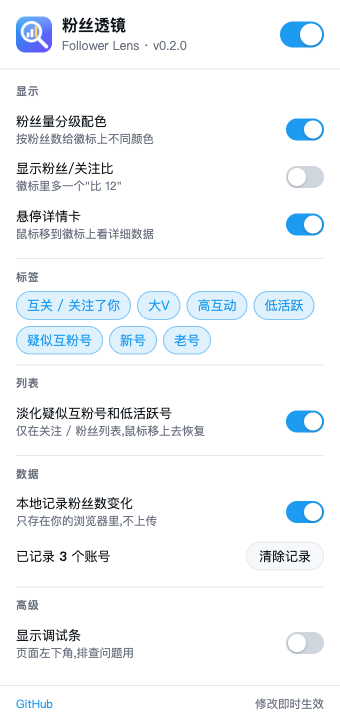
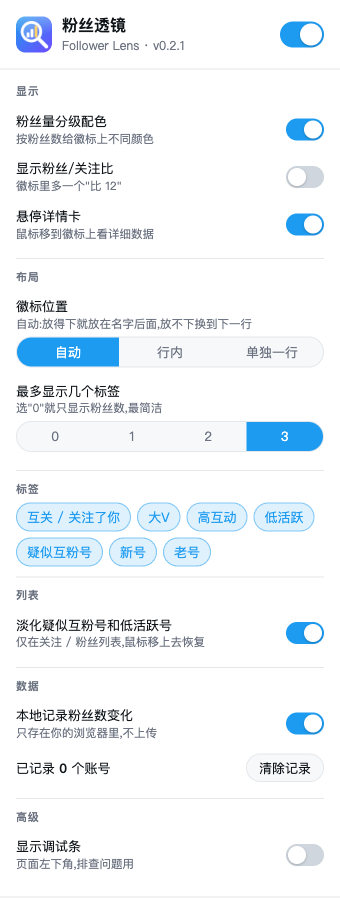
v0.2.1:徽标位置自适应(自动/行内/单独一行),标签数量可调
推文头部一行很挤,徽标塞进去会把名字和徽标文字挤坏。
- 默认"自动":放得下就放行内,名字被挤省略时换到头部下方单独一行
- 徽标及其子元素不再被 flex 压缩换行
- 设置面板新增"徽标位置"和"最多显示几个标签(0~3)"

diff --git a/content.js b/content.js
@@ -132,7 +132,7 @@
     }
 
     if (!compact) {
-      for (const t of list.slice(0, 3)) {
+      for (const t of list.slice(0, settings.maxTags)) {
         const el = document.createElement("span");
         el.className = "fl-tag " + t.cls;
         el.textContent = t.text;
@@ -147,22 +147,77 @@
     return [u.followers, s ? s.views : 0, u.followedBy, u.iFollow, settingsVer, compact ? 1 : 0].join("|");
   }
 
-  function decorate(container, anchor, isCell) {
-    const handle = handleOf(container);
+  // ----- 推文头部:行内 / 单独一行 / 自动 -----
+  const placed = new WeakMap();   // User-Name 元素 -> { badge, line, sig }
+
+  // 头部整行(名字区 + 其它插件的小标 + 菜单)。结构不符就返回 null,调用方退回行内。
+  function headerRow(un) {
+    const row = un.parentElement && un.parentElement.parentElement && un.parentElement.parentElement.parentElement;
+    const host = row && row.parentElement;
+    if (!row || !host) return null;
+    const rs = getComputedStyle(row), hs = getComputedStyle(host);
+    return rs.display === "flex" && rs.flexDirection === "row" && hs.flexDirection === "column" ? row : null;
+  }
+
+  // 名字或 @ID 因为空间不够被省略(...)了吗
+  function crowded(un, badge) {
+    for (const n of un.querySelectorAll("*")) {
+      if (n === badge || badge.contains(n)) continue;
+      if (n.clientWidth > 0 && n.scrollWidth > n.clientWidth + 1) return true;
+    }
+    return false;
+  }
+
+  function placeBelow(un, badge) {
+    const row = headerRow(un);
+    if (!row) return null;
+    const line = document.createElement("div");
+    line.className = "fl-line";
+    line.append(badge);
+    row.after(line);
+    return line;
+  }
+
+  function decorateTweet(un) {
+    const handle = handleOf(un);
     if (!handle || !users.has(handle)) return;
-    const compact = !!container.closest('[data-testid="sidebarColumn"]');
+    const sig = sigOf(handle, false);
+    const rec = placed.get(un);
+    if (rec && rec.badge.isConnected && rec.sig === sig) return;
+    if (rec) { rec.badge.remove(); if (rec.line) rec.line.remove(); }
+
+    const built = buildBadge(handle, false);
+    if (!built) return;
+    let line = null;
+    if (settings.layout === "below") {
+      line = placeBelow(un, built.wrap);
+      if (!line) un.append(built.wrap);
+    } else {
+      un.append(built.wrap);
+      // 自动:放进去之后名字被挤省略了,就挪到下一行(只判断这一次,不来回挪)
+      if (settings.layout === "auto" && crowded(un, built.wrap)) line = placeBelow(un, built.wrap);
+    }
+    placed.set(un, { badge: built.wrap, line, sig });
+  }
+
+  // ----- 关注 / 粉丝列表里的用户行 -----
+  function decorateCell(cell, anchor) {
+    const handle = handleOf(cell);
+    if (!handle || !users.has(handle)) return;
+    const compact = !!cell.closest('[data-testid="sidebarColumn"]');
     const sig = sigOf(handle, compact);
-    const old = container.querySelector(".fl-badge");
+    const old = cell.querySelector(".fl-badge");
     if (old && old.dataset.flHandle === handle && old.dataset.flSig === sig) return;
     if (old) old.remove();
     const built = buildBadge(handle, compact);
     if (!built) return;
     built.wrap.dataset.flSig = sig;
     if (anchor) anchor.append(built.wrap);
-    if (isCell) container.classList.toggle("fl-dim", settings.dimLowQuality && P.shouldDim(built.list));
+    cell.classList.toggle("fl-dim", settings.dimLowQuality && P.shouldDim(built.list));
   }
 
   function cleanup() {
+    document.querySelectorAll(".fl-line").forEach((l) => l.remove());
     document.querySelectorAll(".fl-badge").forEach((b) => b.remove());
     document.querySelectorAll(".fl-dim").forEach((c) => c.classList.remove("fl-dim"));
   }
@@ -170,12 +225,10 @@
   function render() {
     if (!settings) return;
     if (!settings.enabled) { cleanup(); return; }
-    document.querySelectorAll('article[data-testid="tweet"] [data-testid="User-Name"]').forEach((el) => {
-      decorate(el, el, false);
-    });
+    document.querySelectorAll('article[data-testid="tweet"] [data-testid="User-Name"]').forEach(decorateTweet);
     document.querySelectorAll('[data-testid="UserCell"]').forEach((cell) => {
       const nameBlock = cell.querySelector('[dir="ltr"]')?.closest("div");
-      decorate(cell, nameBlock && nameBlock.parentElement, true);
+      decorateCell(cell, nameBlock && nameBlock.parentElement);
     });
     updateHud();
   }

diff --git a/popup.js b/popup.js
@@ -3,7 +3,7 @@
   const HIST_KEY = "fl_hist";
   const DEFAULTS = {
     enabled: true, showRatio: false, tierColors: true, hoverCard: true,
-    trackHistory: true, dimLowQuality: true, debug: false,
+    trackHistory: true, dimLowQuality: true, layout: "auto", maxTags: 3, debug: false,
     tags: { relation: true, bigV: true, farm: true, newAcct: true, oldAcct: true, engaged: true, lowActive: true },
   };
   let settings = null;
@@ -14,7 +14,8 @@
   const save = () => chrome.storage.local.set({ [KEY]: settings });
 
   function paint() {
-    document.querySelectorAll("input[data-key]").forEach((el) => { el.checked = !!settings[el.dataset.key]; });
+    document.querySelectorAll('input[type="checkbox"][data-key]').forEach((el) => { el.checked = !!settings[el.dataset.key]; });
+    document.querySelectorAll('input[type="radio"][data-key]').forEach((el) => { el.checked = String(settings[el.dataset.key]) === el.value; });
     document.querySelectorAll("input[data-tag]").forEach((el) => { el.checked = !!settings.tags[el.dataset.tag]; });
     document.getElementById("panel").classList.toggle("off", !settings.enabled);
   }
@@ -33,8 +34,10 @@
 
   document.addEventListener("change", (e) => {
     const el = e.target;
-    if (!settings || el.type !== "checkbox") return;
-    if (el.dataset.key) settings[el.dataset.key] = el.checked;
+    if (!settings) return;
+    if (el.type === "radio" && el.dataset.key) settings[el.dataset.key] = el.dataset.key === "maxTags" ? Number(el.value) : el.value;
+    else if (el.type !== "checkbox") return;
+    else if (el.dataset.key) settings[el.dataset.key] = el.checked;
     else if (el.dataset.tag) settings.tags[el.dataset.tag] = el.checked;
     paint();
     save();

diff --git a/popup.html b/popup.html
@@ -24,6 +24,27 @@
     </section>
 
     <section>
+      <h2>布局</h2>
+      <div class="row nohover">
+        <span>徽标位置<small>自动:放得下就放在名字后面,放不下换到下一行</small></span>
+      </div>
+      <div class="seg">
+        <label><input type="radio" name="layout" data-key="layout" value="auto"><span>自动</span></label>
+        <label><input type="radio" name="layout" data-key="layout" value="inline"><span>行内</span></label>
+        <label><input type="radio" name="layout" data-key="layout" value="below"><span>单独一行</span></label>
+      </div>
+      <div class="row nohover">
+        <span>最多显示几个标签<small>选"0"就只显示粉丝数,最简洁</small></span>
+      </div>
+      <div class="seg">
+        <label><input type="radio" name="maxTags" data-key="maxTags" value="0"><span>0</span></label>
+        <label><input type="radio" name="maxTags" data-key="maxTags" value="1"><span>1</span></label>
+        <label><input type="radio" name="maxTags" data-key="maxTags" value="2"><span>2</span></label>
+        <label><input type="radio" name="maxTags" data-key="maxTags" value="3"><span>3</span></label>
+      </div>
+    </section>
+
+    <section>
       <h2>标签</h2>
       <div class="chips">
         <label class="chip"><input type="checkbox" data-tag="relation"><span>互关 / 关注了你</span></label>

diff --git a/popup.css b/popup.css
@@ -49,3 +49,9 @@ button {
 button:hover { border-color: var(--accent); color: var(--accent); }
 footer { display: flex; justify-content: space-between; padding: 10px 16px; border-top: 1px solid var(--line); color: var(--muted); font-size: 11.5px; }
 footer a { color: var(--accent); text-decoration: none; }
+.row.nohover { cursor: default; padding-bottom: 2px; }
+.seg { display: flex; gap: 0; margin: 2px 0 8px; border: 1px solid var(--line); border-radius: 999px; overflow: hidden; background: var(--card); }
+.seg label { flex: 1; }
+.seg input { display: none; }
+.seg span { display: block; text-align: center; padding: 5px 0; cursor: pointer; color: var(--muted); user-select: none; transition: all .12s; }
+.seg input:checked + span { background: var(--accent); color: #fff; }

diff --git a/parse.js b/parse.js
@@ -10,6 +10,8 @@
     hoverCard: true,      // 悬停详情卡
     trackHistory: true,   // 本地记录粉丝数变化
     dimLowQuality: true,  // 在关注/粉丝列表里淡化疑似互粉号、低活跃号
+    layout: "auto",       // 徽标位置:auto 自动 / inline 行内 / below 单独一行
+    maxTags: 3,           // 徽标里最多显示几个标签(0 = 只显示粉丝数)
     debug: false,         // 左下角调试条
     tags: {
       relation: true,     // 互关 / 关注了你

diff --git a/content.css b/content.css
@@ -4,12 +4,16 @@
   flex-wrap: nowrap;
   white-space: nowrap;
   gap: 4px;
+  flex: none;            /* 不被头部那一行压缩,宁可让名字省略 */
   margin-left: 6px;
   font-size: 12px;
   line-height: 1;
   vertical-align: middle;
   cursor: default;
 }
+.fl-badge > * { flex: none; white-space: nowrap; }
+.fl-line { margin: 1px 0 3px; }
+.fl-line .fl-badge { margin-left: 0; }
 .fl-main {
   padding: 2px 7px;
   border-radius: 999px;

diff --git a/README.md b/README.md
@@ -21,6 +21,8 @@ Andy L ✓ @AndyL5cc · 1小时  [9284 粉丝]
 - **互关 / 关注了你**:一眼看出谁关注了你、哪些是互关。在别人的"关注者"页、你自己的"关注者"页尤其有用。
 - **列表里淡化低质量账号**:关注 / 粉丝列表里,疑似互粉号和低活跃号会变淡,鼠标移上去恢复,帮你更快找到值得关注的人。
 - 粉丝数 1 万以内显示精确数字,超过 1 万用"万"、"亿"。
+- **自适应布局**:推文头部那一行很挤(名字、@ID、时间,再加上你装的其它插件的小标)。默认的"自动"模式下,徽标能放在名字后面就放,放不下(名字会被挤省略)就自动换到下一行,不会把名字挤坏。也可以固定成"行内"或"单独一行"。
+- **标签数量可调**:徽标里最多显示几个标签,可选 0~3 个。选 0 就只剩粉丝数,最简洁。
 - 右侧"推荐关注"栏地方窄,只显示粉丝数,不显示标签。
 
 ## 设置
@@ -29,11 +31,11 @@ Andy L ✓ @AndyL5cc · 1小时  [9284 粉丝]
 
 <p align="center"><img src="docs/popup.png" width="300" alt="设置面板"></p>
 
-可以单独开关:分级配色、粉丝/关注比、悬停详情卡、每一种标签、列表淡化、历史记录,也可以一键清除历史记录。
+可以调整:徽标位置(自动 / 行内 / 单独一行)、最多显示几个标签,单独开关分级配色、粉丝/关注比、悬停详情卡、每一种标签、列表淡化、历史记录,也可以一键清除历史记录。
 
 ## 质量标签
 
-徽标最多显示 3 个标签,按下面的顺序优先。
+徽标默认最多显示 3 个标签(可在设置里改),按下面的顺序优先。
 
 | 标签 | 含义 |
 |---|---|
